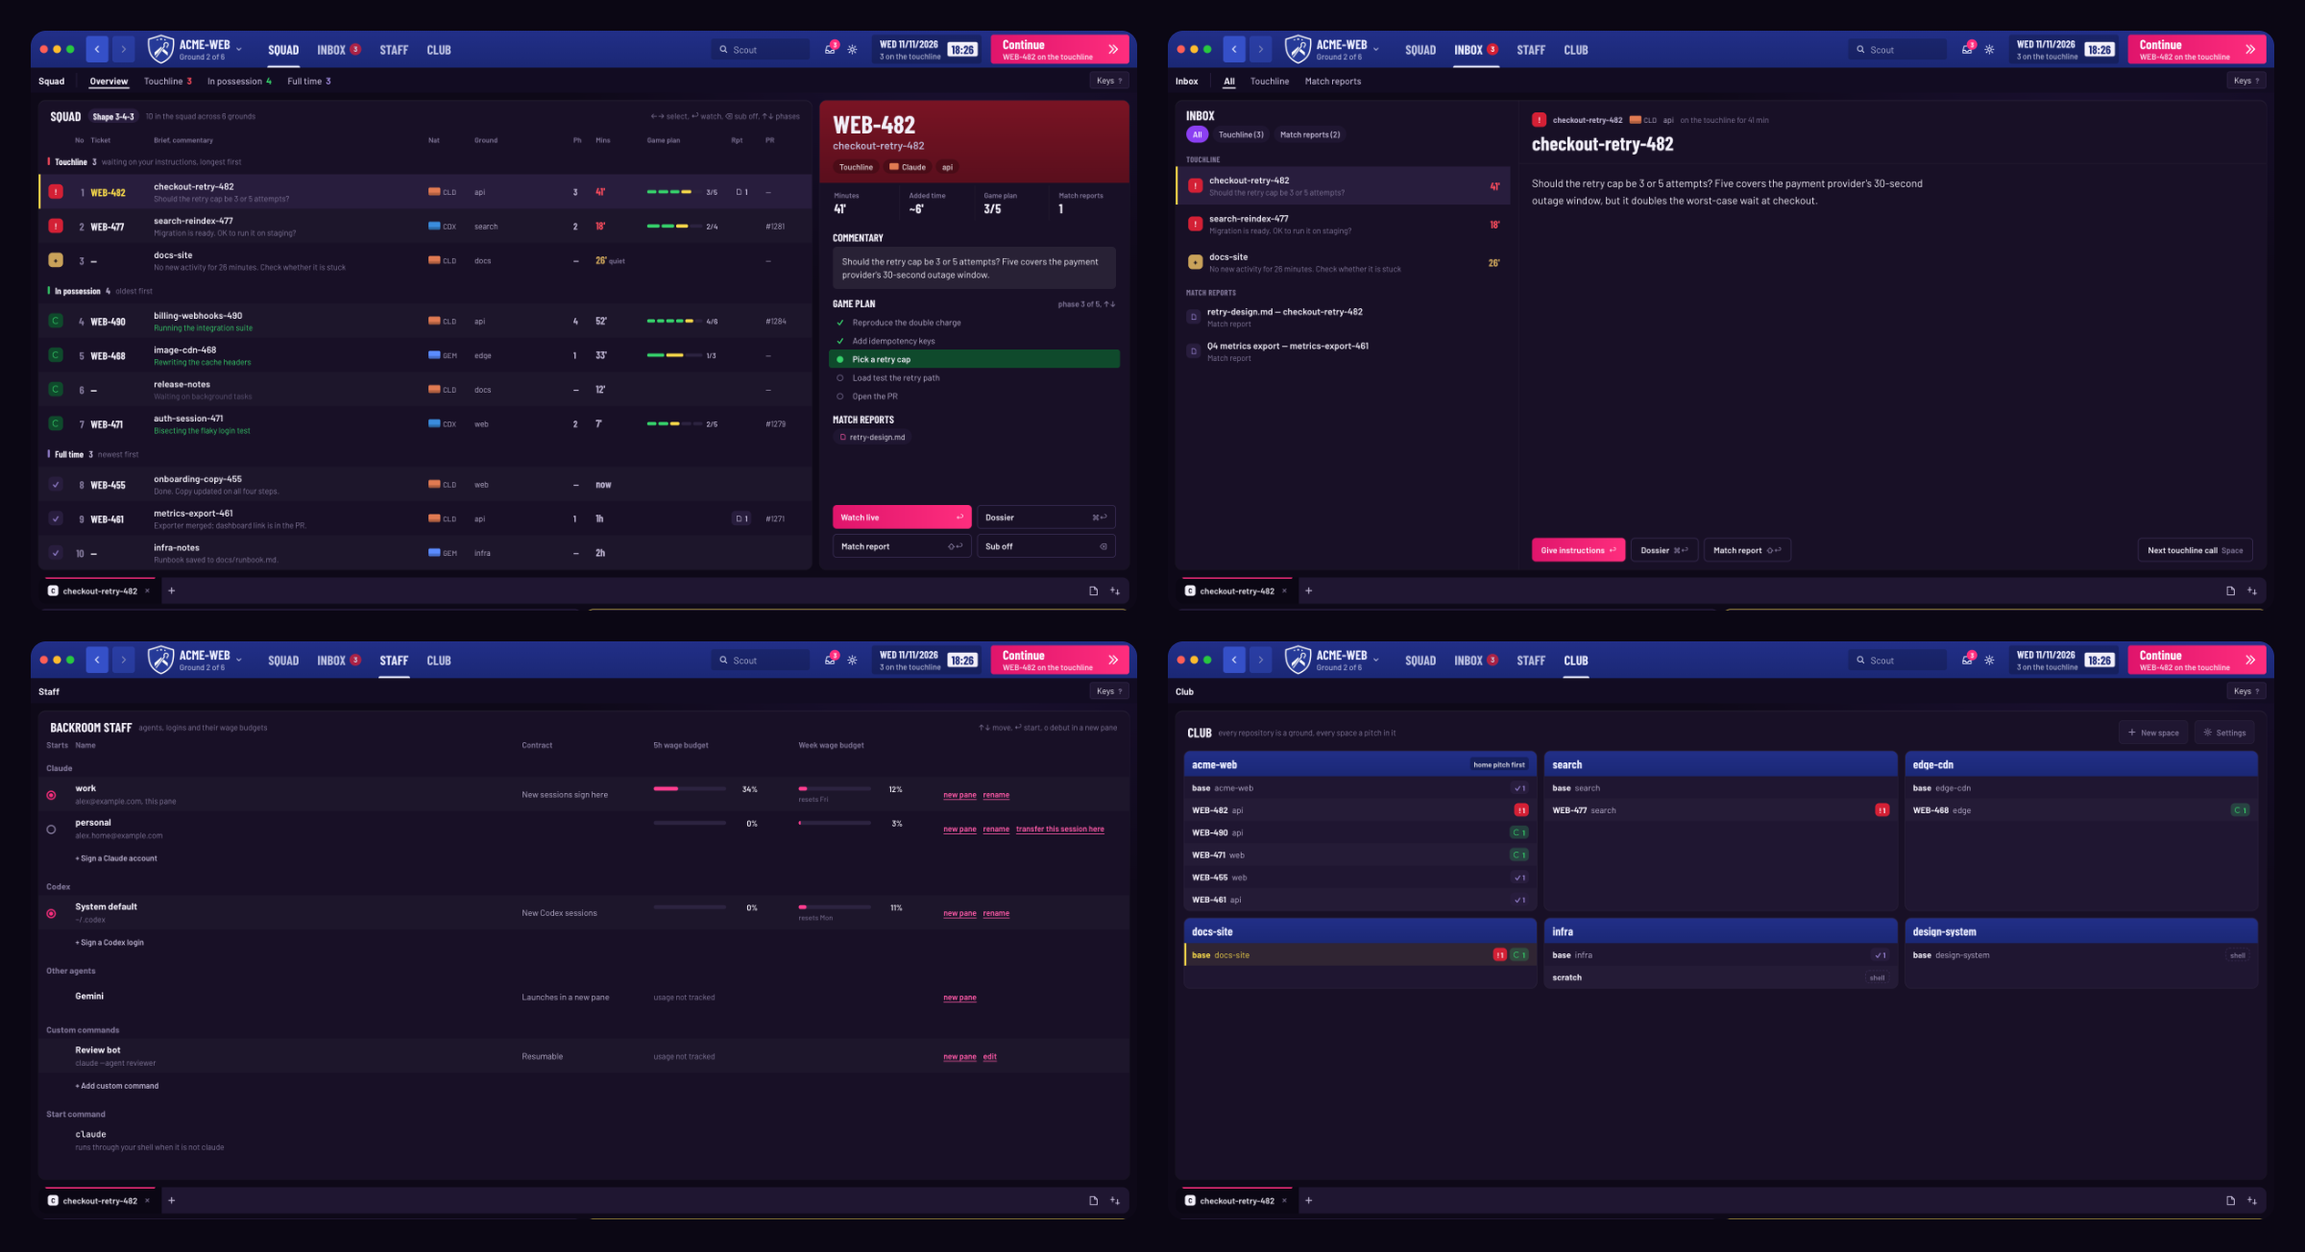
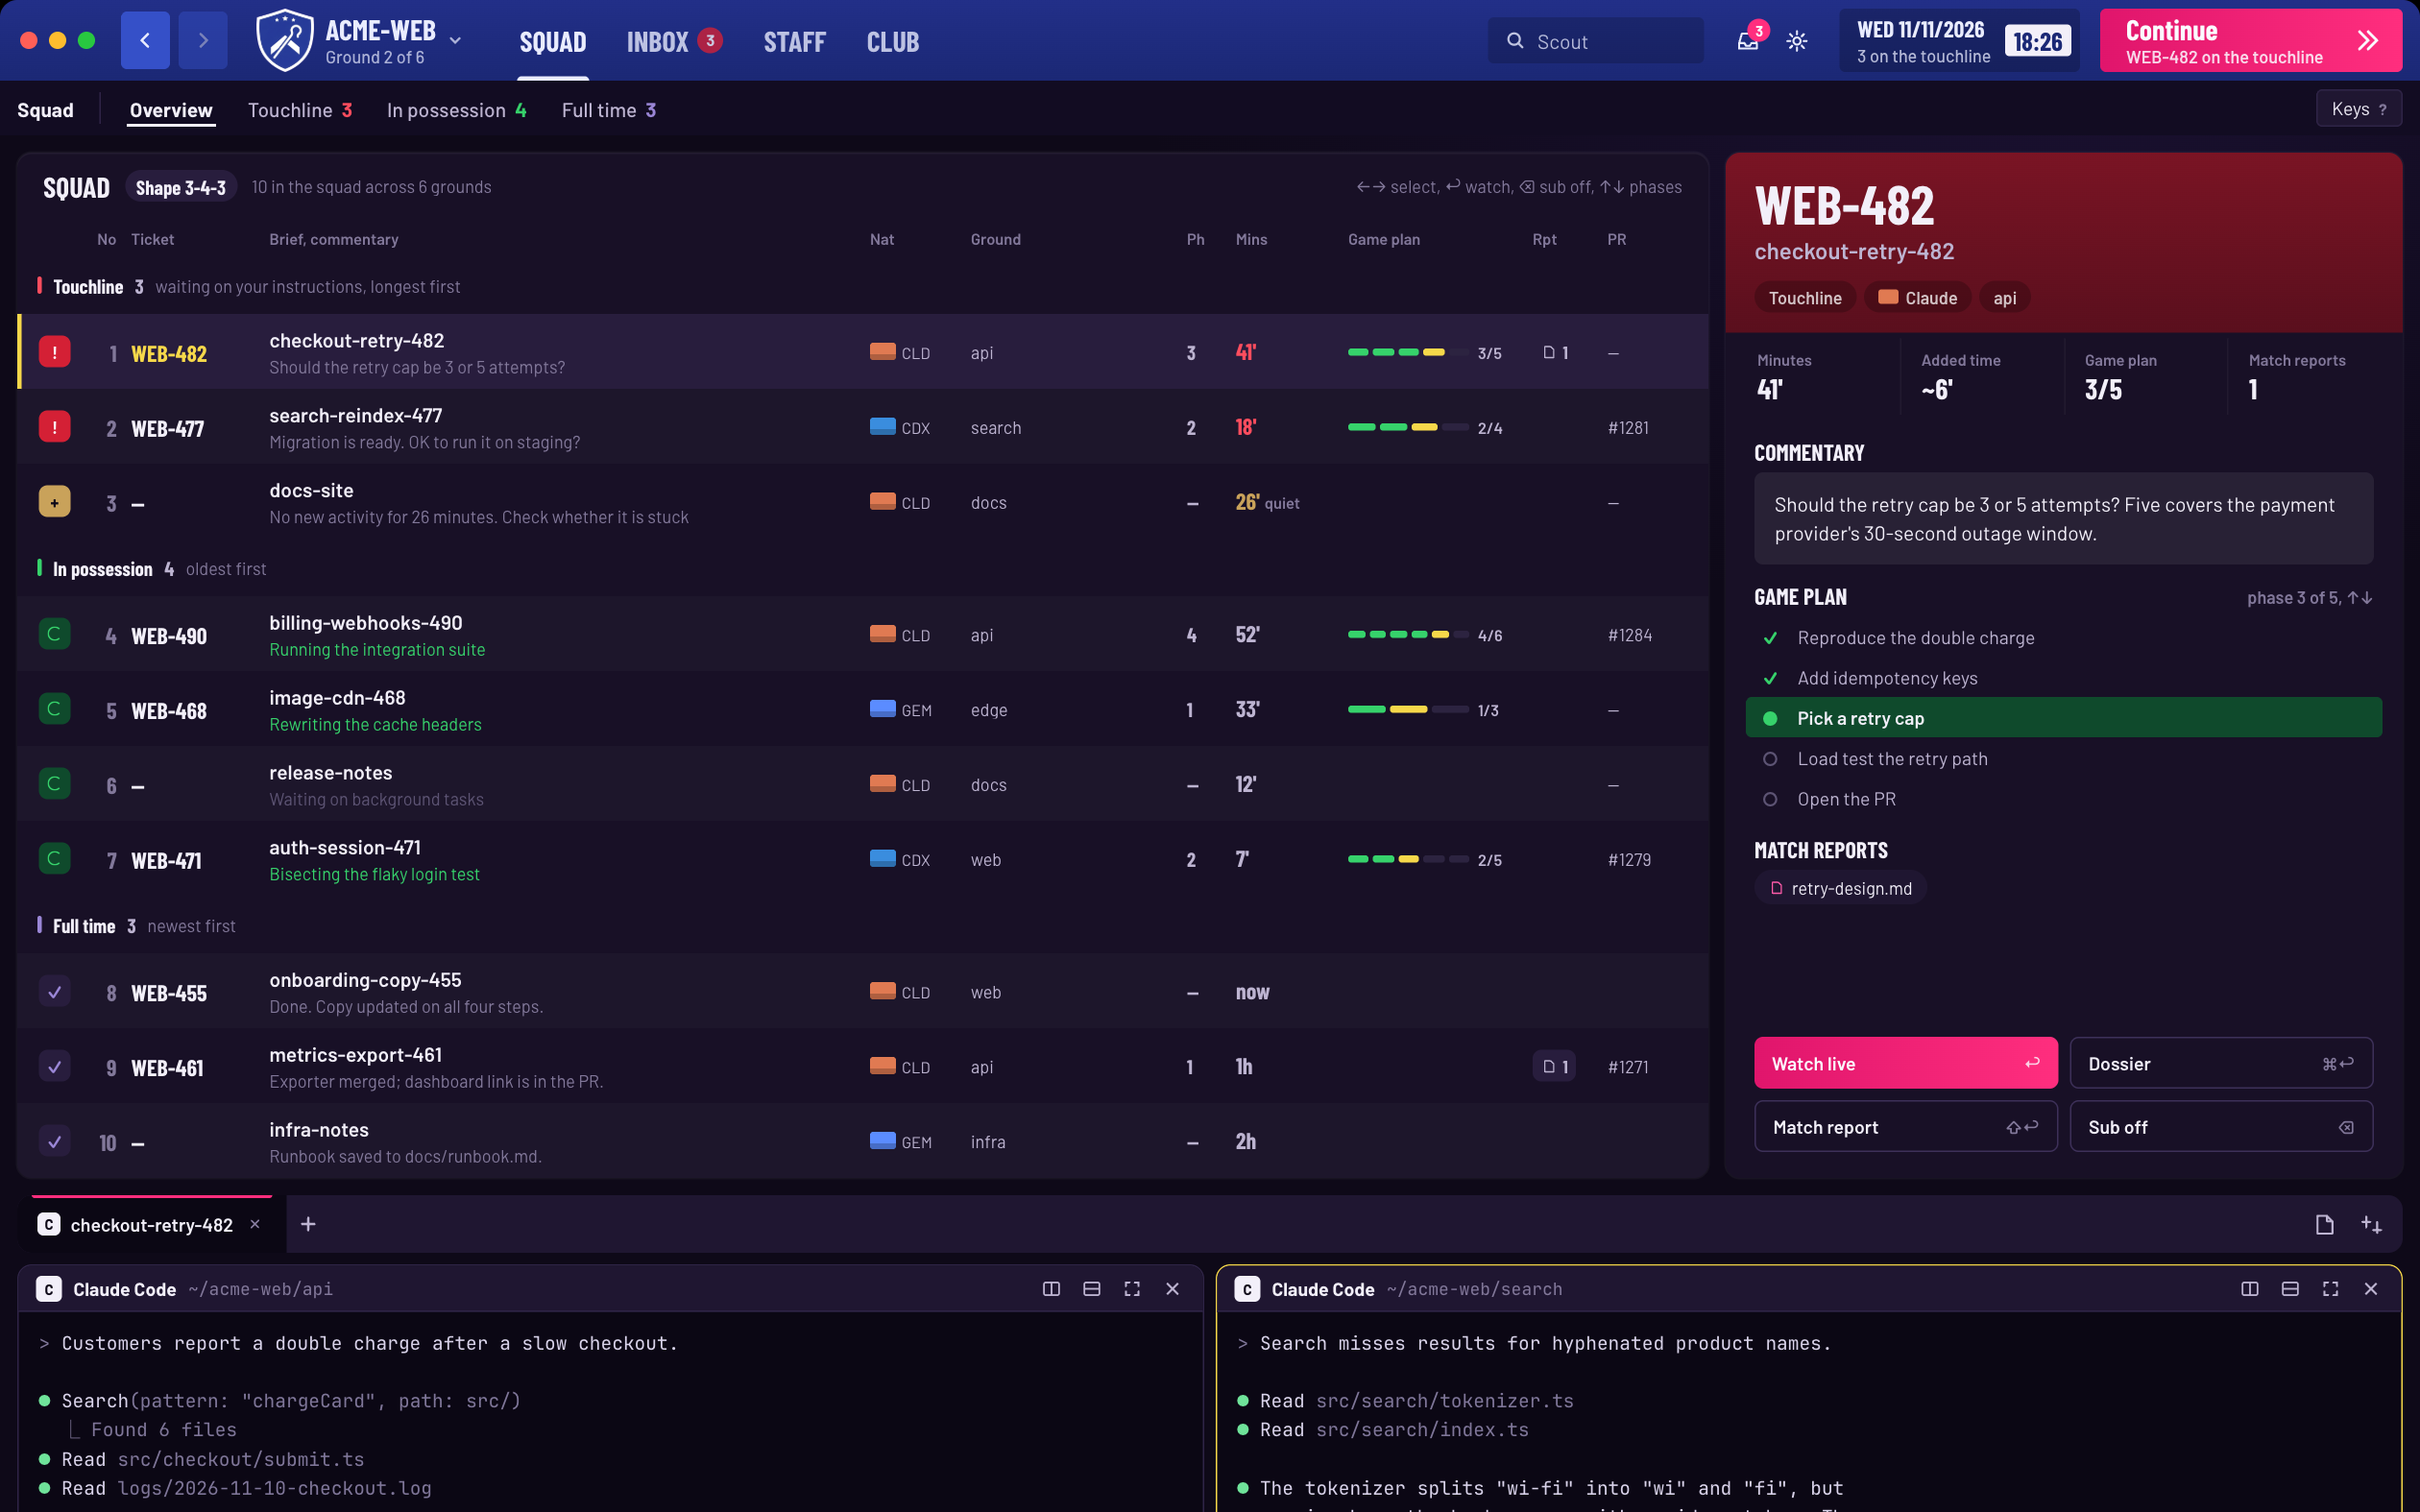
docs: 갤러리 카드 비율에 맞춘 Squad 미리보기와 화면 캡처 위치 조정

diff --git a/README.md b/README.md
@@ -4,9 +4,30 @@ A Football Manager 27-styled layout for [Herdr](https://herdr.dev). Claude Code,
 
 The data, grouping, actions and keys are forked from the author's own chiikawa-cards layout.
 
-![FM27: the Squad, Inbox, Staff and Club screens](preview.png)
+![FM27: the Squad screen](preview.png)
 
 The screenshots use made-up sessions and terminals, rendered by `art/render.mjs` from `art/preview.html`, a sample-data copy of the window.
+
+## Screens
+
+- **Squad**. The match table (left) and the selected session's player overview (right). The table groups sessions into *Touchline* (needs you), *In possession* (working) and *Full time* (done, four shown with "+N more at full time"); a stall joins the touchline as a *Stoppage*.
+
+  ![FM27: the Squad screen with the live terminals](art/shots/squad.png)
+
+- **Inbox**. The touchline calls and match reports on the left, the picked session's or report's body on the right, and the action row underneath. Filter chips *All*, *Touchline (n)*, *Match reports (n)*; with no rows the body is the calm empty state: "Nothing on the touchline".
+
+  ![FM27: the Inbox screen](art/shots/inbox.png)
+
+- **Staff**. The backroom: every Claude and Codex login, the custom commands and the Claude start command. The radio marks the login new sessions start under, the 5h and week windows read as wage budgets, and **Continue this session as** is *Transfer this session here*.
+
+  ![FM27: the Staff screen](art/shots/staff.png)
+
+- **Club**. Every git repository is a ground and every space a pitch in it, one row per space with the crew's status pills. A click selects a space, a drag (or ⌥↑/⌥↓) reorders it inside its ground, a right-click opens Herdr's space menu, and the chrome's crest opens the same list as a dropdown.
+
+  ![FM27: the Club screen](art/shots/club.png)
+
+
+Below the screens the **live** block is always there: the tabs bar and the active terminal. **Editor** panes are optional and come from `hv`.
 
 ## Add it
 
@@ -69,27 +90,6 @@ The Dossier's Jira and Slack rows and the repository prefixes `fm-squad` recogni
 - `repos` — the repository prefixes a session folder may start with (`shop-<rest>-<TICKET>`); the prefix is stripped from a row's ground. Without it no folder is read as a repository.
 
 A missing or invalid file reads as if it were absent, and nothing appears in the notice bar.
-
-## Screens
-
-- **Squad**. The match table (left) and the selected session's player overview (right). The table groups sessions into *Touchline* (needs you), *In possession* (working) and *Full time* (done, four shown with "+N more at full time"); a stall joins the touchline as a *Stoppage*.
-
-  ![FM27: the Squad screen with the live terminals](art/shots/squad.png)
-
-- **Inbox**. The touchline calls and match reports on the left, the picked session's or report's body on the right, and the action row underneath. Filter chips *All*, *Touchline (n)*, *Match reports (n)*; with no rows the body is the calm empty state: "Nothing on the touchline".
-
-  ![FM27: the Inbox screen](art/shots/inbox.png)
-
-- **Staff**. The backroom: every Claude and Codex login, the custom commands and the Claude start command. The radio marks the login new sessions start under, the 5h and week windows read as wage budgets, and **Continue this session as** is *Transfer this session here*.
-
-  ![FM27: the Staff screen](art/shots/staff.png)
-
-- **Club**. Every git repository is a ground and every space a pitch in it, one row per space with the crew's status pills. A click selects a space, a drag (or ⌥↑/⌥↓) reorders it inside its ground, a right-click opens Herdr's space menu, and the chrome's crest opens the same list as a dropdown.
-
-  ![FM27: the Club screen](art/shots/club.png)
-
-
-Below the screens the **live** block is always there: the tabs bar and the active terminal. **Editor** panes are optional and come from `hv`.
 
 ## Keys
 
